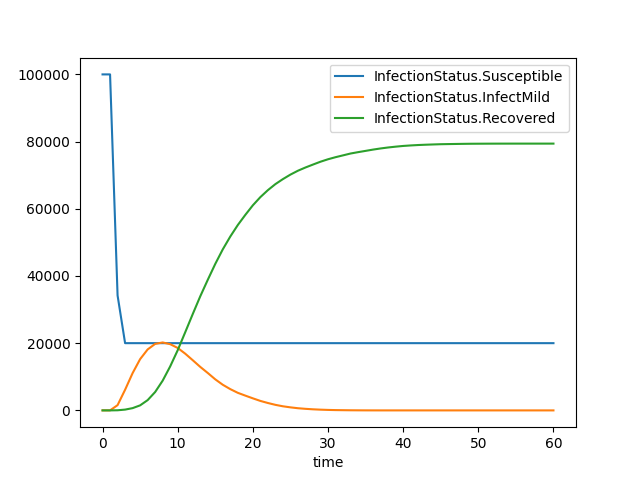
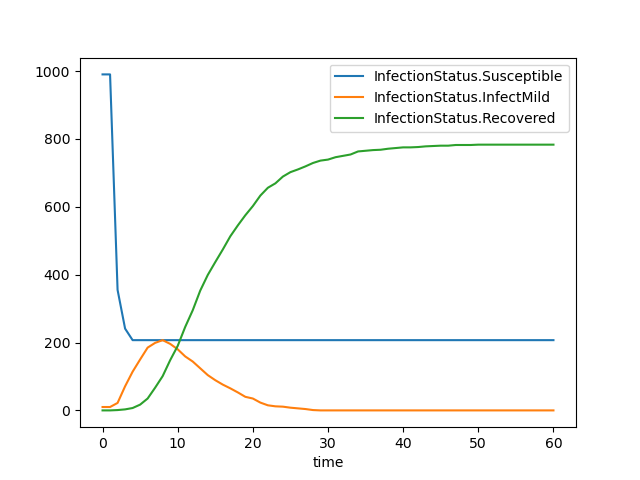
Regenerate output from basic simulation (#269)

diff --git a/python_examples/basic_simulation/simulation_flow.py b/python_examples/basic_simulation/simulation_flow.py
@@ -25,7 +25,7 @@ pe.routine.Simulation.set_random_seed(seed=42)
 # Pop_params are used to configure the population structure being used in this
 # simulation.
 
-pop_params = {"population_size": 100, "cell_number": 1,
+pop_params = {"population_size": 1000, "cell_number": 1,
               "microcell_number": 1, "household_number": 5,
               "place_number": 2}
 

diff --git a/python_examples/README.md b/python_examples/README.md
@@ -8,7 +8,7 @@ This script outlines all commands necessary to run a basic simulation. It models
 
 It subsequently saves the results to a .csv file, and plots a basic SIR plot of the simulation output, depicted below:
 
-![SIR plot from simulation_flow.pt](./basic_example/simulation_outputs/simulation_flow_SIR_plot.png)
+![SIR plot from simulation_flow.pt](./basic_simulation/simulation_outputs/simulation_flow_SIR_plot.png)
 
 ## Basic Infection History Simulation
 
